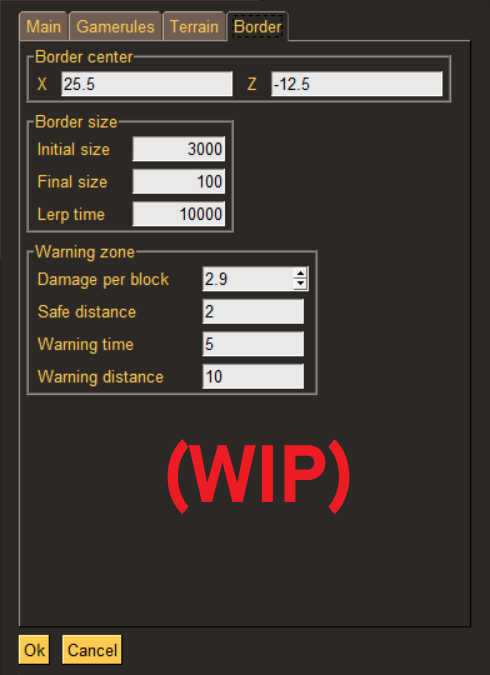
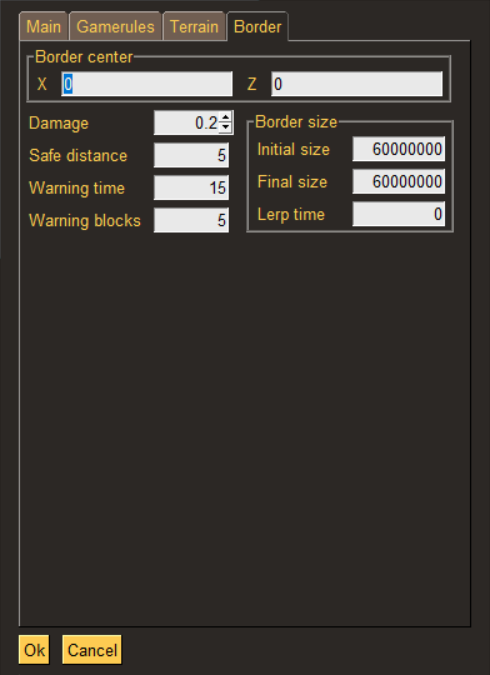
v0.4

Changed region(s): [[0.0306, 0.0933, 0.949, 0.5911], [0.3367, 0.6533, 0.7347, 0.7778]]

diff --git a/FastWorldCreator.py b/FastWorldCreator.py
@@ -66,7 +66,7 @@ def create_layouts():
 
         Contains most common Minecraft options such as version, world name,
         seed, game mode and difficulty. Datapack selection is bundled in the
-        main tab, and populated from the assets/imported_datapacks folder.
+        main tab, and populated from the assets/datapacks folder.
         """
         logging.debug("Creating main tab layout")
         layout = [[
@@ -276,7 +276,7 @@ def create_layouts():
                 sg.T("Z"), sg.I("0", (19, 1), key="border_z"),
             ]])
         ]]
-        layout += [[
+        col1_layout = [[
             sg.Frame("Border size", [
                 [
                     sg.T("Initial size", (8, 1)),
@@ -296,27 +296,26 @@ def create_layouts():
                 ]
             ])
         ]]
+        col2_layout = [[
+            sg.T("Damage", (11, 1), tooltip="Damage per block"),
+            sg.Spin([str(x / 10) for x in range(201)], "0.2", size=(7, 1),
+                    key="border_damage")
+        ]]
+        col2_layout += [[
+            sg.T("Safe distance", (11, 1), tooltip="Blocks beyond border"),
+            sg.I("5", (8, 1), justification="right", key="border_safe_blocks")
+        ]]
+        col2_layout += [[
+            sg.T("Warning time", (11, 1)),
+            sg.I("15", (8, 1), justification="right", key="border_warn_time")
+        ]]
+        col2_layout += [[
+            sg.T("Warning blocks", (11, 1)),
+            sg.I("5", (8, 1), justification="right", key="border_warn_blocks")
+        ]]
         layout += [[
-            sg.Frame("Warning zone", [
-                [
-                    sg.T("Damage per block", (15, 1)),
-                    sg.Spin([str(x / 10) for x in range(201)], "0.2",
-                            size=(10, 1), key="border_damage")
-
-                ],
-                [
-                    sg.T("Safe distance", (15, 1)),
-                    sg.I("5", (11, 1), key="border_safe_blocks")
-                ],
-                [
-                    sg.T("Warning time", (15, 1)),
-                    sg.I("15", (11, 1), key="border_warn_time")
-                ],
-                [
-                    sg.T("Warning distance", (15, 1)),
-                    sg.I("5", (11, 1), key="border_warn_blocks")
-                ]
-            ])
+            sg.Col(col2_layout, pad=(0, 0)),
+            sg.Col(col1_layout, pad=(0, 0))
         ]]
         return layout
 

diff --git a/fast_world_creator/utils/datapack_utils.py b/fast_world_creator/utils/datapack_utils.py
@@ -10,7 +10,7 @@ def get_available_datapacks() -> List[
         Union[RandomLootDataPack, ExternalDatapack]]:
     """ Get a list of the datapacks that can be added to a world.
 
-    Reads the zip files available in the assets/imported_datapacks folder and
+    Reads the zip files available in the assets/datapacks folder and
     creates an ExternalDatapack object with their path and name. The external
     datapacks are then appended after a RandomLootDatapack object, which is
     built during program runtime.
@@ -18,7 +18,7 @@ def get_available_datapacks() -> List[
     :return: A list of the available datapacks.
     """
     datapacks = [RandomLootDataPack()]
-    external_datapack_folder = f"{os.getcwd()}/assets/imported_datapacks"
+    external_datapack_folder = f"{os.getcwd()}/assets/datapacks"
     for z in os.listdir(external_datapack_folder):
         if z.endswith(".zip"):
             dp = ExternalDatapack(f"{external_datapack_folder}/{z}")

diff --git a/fast_world_creator/datapacks/external_datapack.py b/fast_world_creator/datapacks/external_datapack.py
@@ -10,7 +10,7 @@ class ExternalDatapack(Datapack):
         super().__init__()
         self.name = path.split("/")[-1].rstrip(".zip")
         self.path = path
-        self.description = "Found in assets/imported_datapacks"
+        self.description = "Found in assets/datapacks"
 
     def store(self) -> None:
         """ Copy the existing datapack zip to the datapacks folder."""
